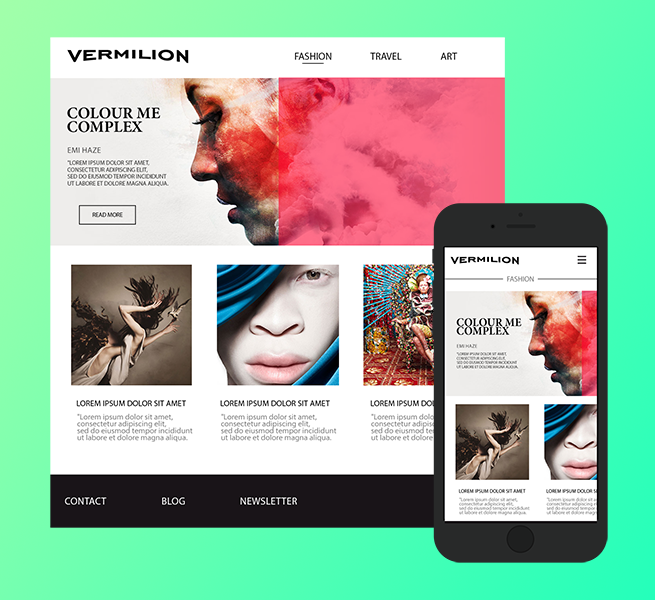
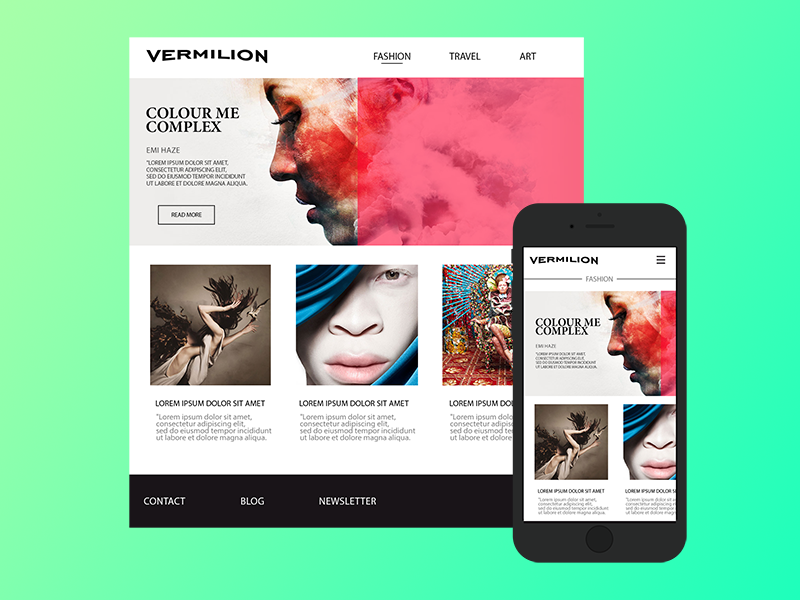
Try to fix project resizing

diff --git a/css/style.less b/css/style.less
@@ -254,6 +254,14 @@ a {
         background-size: cover;
         position: relative;
         
+        flex-grow: 1;
+        flex-shrink: 1;
+        flex-basis: 0;
+        
+        img {
+            width: 100%;
+        }
+        
         .hover {
             position:absolute; 
             top:0px; 
@@ -275,17 +283,15 @@ a {
         }
     }
 }
-
+img {max-width:100%;}
 .row {
     width: 100%;
-    height: 600px;
     display: flex;
     flex-flow: row wrap;
     justify-content: center;
     
     .vertical-flow {
         flex-flow: column;
-        height: 100%;
     }
 
     .horizontal-flow {
@@ -295,70 +301,29 @@ a {
     .column66 {
         position: relative;
         flex: 2;
-        height: 100%;
         display: flex;
-        justify-content: center;
-        align-items: center;
+        justify-content: flex-start;
+        align-items: flex-start;
     }
     
     .column33 {
         position: relative;
         flex: 1;
         display: flex;
-        justify-content: center;
-        align-items: center;
-        text-align: center;
+        justify-content: flex-start;
+        align-items: flex-start;
     }
         
     .row50 {
         position: relative;
-        width: 100%;
         flex: 1;
         display: flex;
-        justify-content: center;
-        align-items: center;
+        justify-content: flex-start;
+        align-items: flex-start;
     }
         
-    .project-weather {
-        background-image: url(../images/mockup.png);
-    }
-    
     .project-national {
-        background-image: url(../images/ng.png);
-    }
-
-    .project-corporate {
-        background-image: url(../images/corporate.png);
-    }
-    
-    .project-personal {
-        background-image: url(../images/personal.png);
-    } 
-}
-
-.row-small {
-    height: 360px!important;
-    display: flex;
-    
-    .project-space {
-        background-image: url(../images/space.png);
-        flex: 1;
-    }
-    
-    .project-friendsscreen {
-        background-image: url(../images/wdw.png);
-        flex: 1;
-    }
-    
-    .project-medical {
-        background-image: url(../images/medical.png);
-        flex: 1;
-
-    }
-    
-    .project-vermillion {
-        background-image: url(../images/vermillion.png);
-        flex: 1;
+        
     }
 }
 

diff --git a/index.html b/index.html
@@ -31,14 +31,17 @@
                 <div class="column66">
                     <div class="row">
                         <a class="column66 project project-weather" href="/weather.html">
+                            <img src="../images/mockup.png">
                             <div class="hover"><h3>Wee Weather App</h3></div>
                         </a>
                         
                         <div class="column33 vertical-flow">
                             <a class="row50 project project-corporate" href="corporate.html">
+                                <img src="../images/corporate.png">
                                 <div class="hover"><h3>Corporate Identity</h3></div>
                             </a>
                             <a class="row50 project project-personal">
+                                <img src="../images/personal.png">
                                 <div class="hover"><h3>Personal Branding</h3></div>
                             </a>
 
@@ -47,20 +50,25 @@
                 </div>
                 
                 <a class="column33 vertical-flow project project-national" href="/takahe.html">
+                    <img src="../images/test.png">
                     <div class="hover"><h3>National Geographic</h3></div>
                 </a>
             </div>
-            <div class="row row-small">
+            <div class="row">
                 <a class="project project-space" href="">
+                    <img src="../images/space.png">
                     <div class="hover"><h3>Space Game</h3></div>
                 </a>
                 <a class="project project-friendsscreen" href="">
+                    <img src="../images/wdw.png">
                     <div class="hover"><h3>Friends Screen</h3></div>
                 </a>
                 <a class="project project-medical" href="">
+                    <img src="../images/medical.png">
                     <div class="hover"><h3>Medical App</h3></div>
                 </a>
                 <a class="project project-vermillion" href="">
+                    <img src="../images/vermillion.png">
                     <div class="hover"><h3>Vermillion WebPage</h3></div>
                 </a>
             </div>

diff --git a/css/style.css b/css/style.css
@@ -231,6 +231,12 @@ a {
 .section-2 .project {
   background-size: cover;
   position: relative;
+  flex-grow: 1;
+  flex-shrink: 1;
+  flex-basis: 0;
+}
+.section-2 .project img {
+  width: 100%;
 }
 .section-2 .project .hover {
   position: absolute;
@@ -248,16 +254,17 @@ a {
 .section-2 .project:hover .hover {
   opacity: 0.8;
 }
+img {
+  max-width: 100%;
+}
 .row {
   width: 100%;
-  height: 600px;
   display: flex;
   flex-flow: row wrap;
   justify-content: center;
 }
 .row .vertical-flow {
   flex-flow: column;
-  height: 100%;
 }
 .row .horizontal-flow {
   flex-flow: row;
@@ -265,58 +272,23 @@ a {
 .row .column66 {
   position: relative;
   flex: 2;
-  height: 100%;
   display: flex;
-  justify-content: center;
-  align-items: center;
+  justify-content: flex-start;
+  align-items: flex-start;
 }
 .row .column33 {
   position: relative;
   flex: 1;
   display: flex;
-  justify-content: center;
-  align-items: center;
-  text-align: center;
+  justify-content: flex-start;
+  align-items: flex-start;
 }
 .row .row50 {
   position: relative;
-  width: 100%;
   flex: 1;
   display: flex;
-  justify-content: center;
-  align-items: center;
-}
-.row .project-weather {
-  background-image: url(../images/mockup.png);
-}
-.row .project-national {
-  background-image: url(../images/ng.png);
-}
-.row .project-corporate {
-  background-image: url(../images/corporate.png);
-}
-.row .project-personal {
-  background-image: url(../images/personal.png);
-}
-.row-small {
-  height: 360px!important;
-  display: flex;
-}
-.row-small .project-space {
-  background-image: url(../images/space.png);
-  flex: 1;
-}
-.row-small .project-friendsscreen {
-  background-image: url(../images/wdw.png);
-  flex: 1;
-}
-.row-small .project-medical {
-  background-image: url(../images/medical.png);
-  flex: 1;
-}
-.row-small .project-vermillion {
-  background-image: url(../images/vermillion.png);
-  flex: 1;
+  justify-content: flex-start;
+  align-items: flex-start;
 }
 .section-3 {
   height: 100%;
